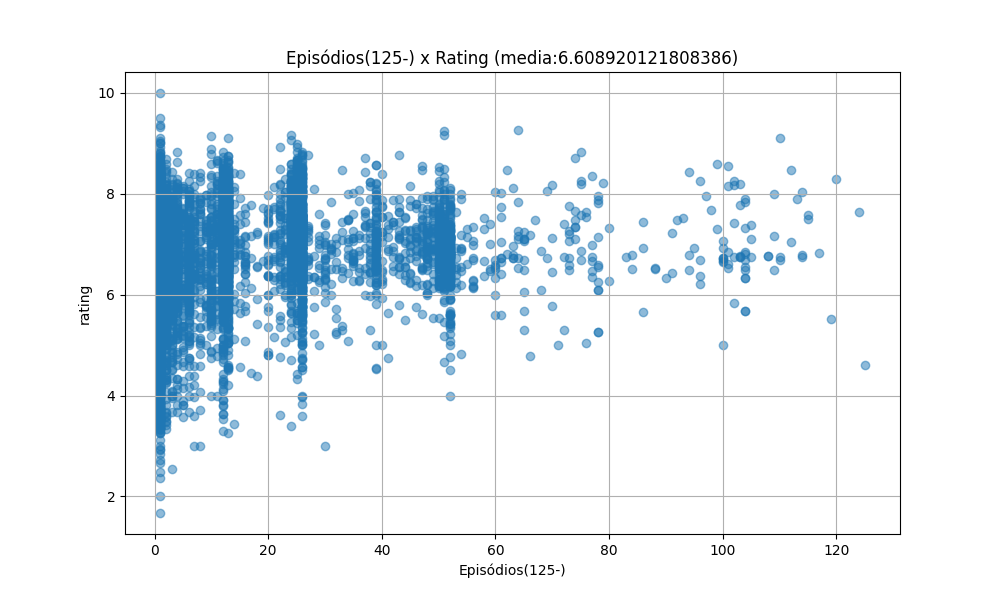
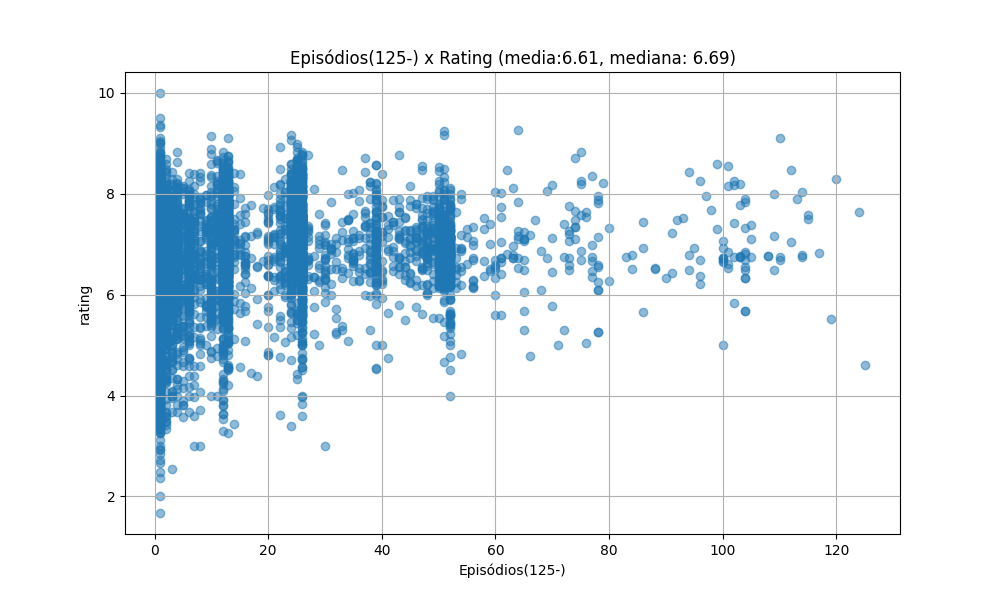
correção dos testes unitários e documentação das funções

Changed region(s): [[0.279, 0.06, 0.744, 0.12]]

diff --git a/src/funcoes.py b/src/funcoes.py
@@ -1,11 +1,14 @@
 import pandas as pd
 import re
+import pandas as pd
 import numpy as np
-from funcoes import *  
-import sys 
+import matplotlib.pyplot as plt
+import datetime
+from typing import Optional
+import re
 
 # Função para abrir o arquivo anime.csv e ler os dados.
-def abrir_anime_csv(caminho='../data/anime.csv'):
+def abrir_anime_csv(caminho: str ='../data/anime.csv') -> pd.DataFrame:
     """
     Lê o arquivo CSV de animes e retorna um DataFrame do Pandas.
 
@@ -39,7 +42,7 @@ def abrir_anime_csv(caminho='../data/anime.csv'):
         return None
 
 # Função para filtrar os gêneros indesejados.
-def filtrar_generos(df):
+def filtrar_generos(df: pd.DataFrame)->pd.DataFrame:
     """
     Filtra os gêneros indesejados do DataFrame de animes.
 
@@ -62,7 +65,7 @@ def filtrar_generos(df):
     return dados_filtrados
 
 # Função para converter datas para o formato DD/MM/YYYY.
-def convert_date(date_str):
+def convert_date(date_str: str) ->str:
     """
     Converte uma string de data no formato 'Mmm DD, YYYY' para 'DD/MM/YYYY'.
 
@@ -89,7 +92,7 @@ def convert_date(date_str):
     return None
 
 # Função para adicionar as datas do arquivo animes_complemento.csv.
-def adicionar_datas(anime):
+def adicionar_datas(anime: pd.DataFrame) -> pd.DataFrame:
     """
     Adiciona a coluna de datas ao DataFrame de animes com base em um arquivo complementar.
 
@@ -133,7 +136,7 @@ def adicionar_datas(anime):
     return anime
 
 # Função para preencher episódios "unknown".
-def preencher_episodios_unknown(anime):
+def preencher_episodios_unknown(anime: pd.DataFrame)->pd.DataFrame:
     """
     Preenche os valores "unknown" na coluna de episódios com dados de um DataFrame de animes limpos.
 
@@ -165,7 +168,7 @@ def preencher_episodios_unknown(anime):
     return anime
 
 # Função para limpar os dados finais.
-def limpar_dados(df):
+def limpar_dados(df: pd.DataFrame)->pd.DataFrame:
     """
     Limpa o DataFrame, removendo entradas inválidas e preenchendo valores padrão.
 
@@ -188,7 +191,7 @@ def limpar_dados(df):
     return df
 
 # Função para remover linhas com episódios "unknown".
-def remover_unknown(df):
+def remover_unknown(df: pd.DataFrame)->pd.DataFrame:
     """
     Remove linhas do DataFrame que têm episódios marcados como "unknown".
 
@@ -205,7 +208,7 @@ def remover_unknown(df):
     return df[df['episodes'].str.lower() != 'unknown']
 
 # Função para salvar o arquivo final como anime_filtrado_limpo.csv.
-def salvar_anime_csv(df, caminho='../data/anime_filtrado_limpo.csv'):
+def salvar_anime_csv(df: pd.DataFrame, caminho: str='../data/anime_filtrado_limpo.csv'):
     """
     Salva o DataFrame em um arquivo CSV.
 
@@ -261,7 +264,33 @@ def processar_anime():
 
         # Salva o DataFrame final em um novo arquivo
         salvar_anime_csv(anime_data_final)
+        
+def extrair_ano(data_str: str) -> Optional[int]:
+    """
+    Extrai o ano da data no formato 'DD/MM/YYYY'.
 
-# Executa o processo
-if __name__ == "__main__":
-    processar_anime()
+    Parâmetros
+    ----------
+    data_str : str
+        A string representando a data no formato 'DD/MM/YYYY'.
+
+    Retorna
+    -------
+   Opcional [int]
+        O ano retirado da string da data. Retorna None se a data não pode
+        ser analizada.
+
+    Examplos
+    --------
+    >>> extrair_ano('12/08/2015')
+    2015
+
+    >>> extrair_ano('invalid date')
+    None
+    """
+    try:
+        return datetime.datetime.strptime(data_str, "%d/%m/%Y").year
+    except (ValueError, TypeError):
+        return None
+
+

diff --git a/src/Hipotese2.py b/src/Hipotese2.py
@@ -30,11 +30,6 @@ selected_data['episodes'] = pd.cut(selected_data['episodes'] ,bins_episodes, lab
 
 print(selected_data.groupby('episodes').count())
 
-rating_media = selected_data.groupby('episodes')['rating'].mean()
-rating_max = selected_data.groupby('episodes')['rating'].max()
-rating_min = selected_data.groupby('episodes')['rating'].min()
-rating_mediana = selected_data.groupby('episodes')['rating'].median()
-
   
 
 # Gera informação para analizar a relação entre a quantidade de episódios de uma obra e o número de membros
@@ -52,12 +47,13 @@ plt.close() # Fechar a figura para evitar conflitos
 
 # Análise detalhada de episódios X membros para episódios >= 500
 df_more_episodes = data_frame[(data_frame['episodes'] >= 500) & (data_frame['members'] < 100000)].copy() # members <100 000 para não contabilizar "outliners"
-media = df_more_episodes['rating'].mean() # média de rating dos episódios com valor >= 500
+media = round(df_more_episodes['rating'].mean(), 2) # média de rating dos episódios com valor >= 500
+mediana = round(df_more_episodes['rating'].median(), 2) # mediana de rating dos episódios com valor >= 500
 
 # Geração do gráfico
 plt.figure(figsize=(10, 6))
 plt.scatter(df_more_episodes['episodes'], df_more_episodes['members'], alpha=0.5)
-plt.title(f'Episódios(500+) x Número de membros (media:{media})')
+plt.title(f'Episódios(500+) x Número de membros (media:{media}, mediana: {mediana})')
 plt.xlabel('Episódios(500+)')
 plt.ylabel('Número de membros')
 plt.grid(True)
@@ -82,12 +78,13 @@ plt.close() # Fechar a figura para evitar conflitos
 # Análise para episódios < 125
 
 df_less_episodes = data_frame[data_frame['episodes'] <= 125].copy() # Seleção dos episódios com valor menor ou igual a 125
-media = df_less_episodes['rating'].mean() # média dos ratings
+media = round(df_less_episodes['rating'].mean(), 2) # média dos ratings
+mediana = round(df_less_episodes['rating'].median(), 2) # mediana dos ratings
 
 # Geração do Gráfico
 plt.figure(figsize=(10, 6))
 plt.scatter(df_less_episodes['episodes'], df_less_episodes['rating'], alpha=0.5)
-plt.title(f'Episódios(125-) x Rating (media:{media})')
+plt.title(f'Episódios(125-) x Rating (media:{media}, mediana: {mediana})')
 plt.xlabel('Episódios(125-)')
 plt.ylabel('rating')
 plt.grid(True)

diff --git a/tests/test_funcoes.py b/tests/test_funcoes.py
@@ -60,6 +60,11 @@ class TestFuncoes(unittest.TestCase):
     def test_processar_anime(self):
         func.processar_anime()
         self.assertTrue(os.path.exists('data/anime_filtrado_limpo.csv'))
+
+    def test_extrair_ano(self):
+        self.assertEqual(func.extrair_ano('12/08/2015'), 2015)
+        self.assertEqual(func.extrair_ano('01/01/2000'), 2000)
+        self.assertEqual(func.extrair_ano('31/12/1999'), 1999)
         
 
 if __name__ == '__main__':
